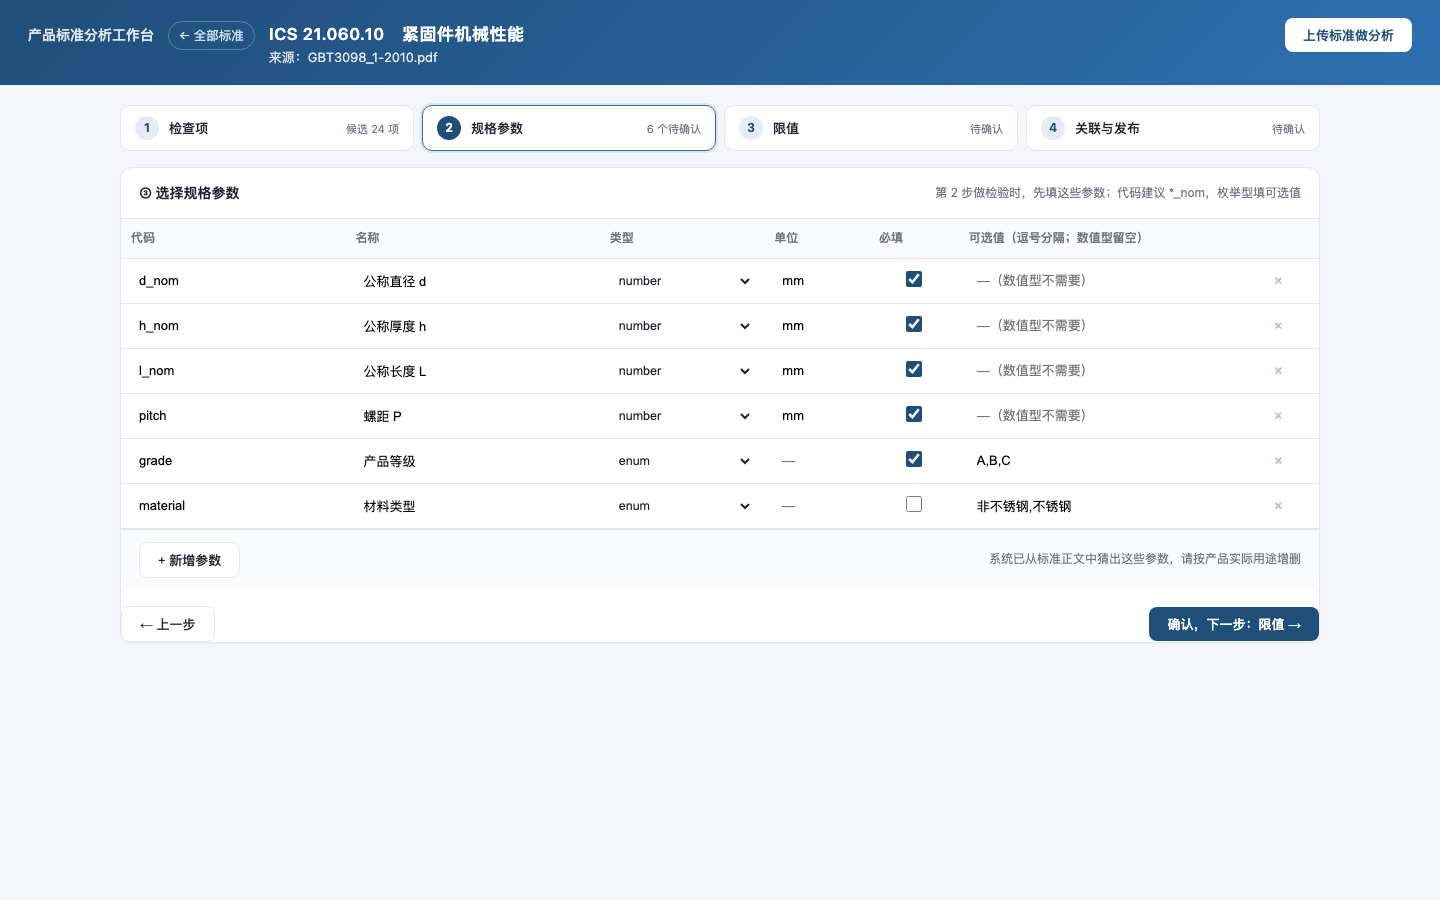
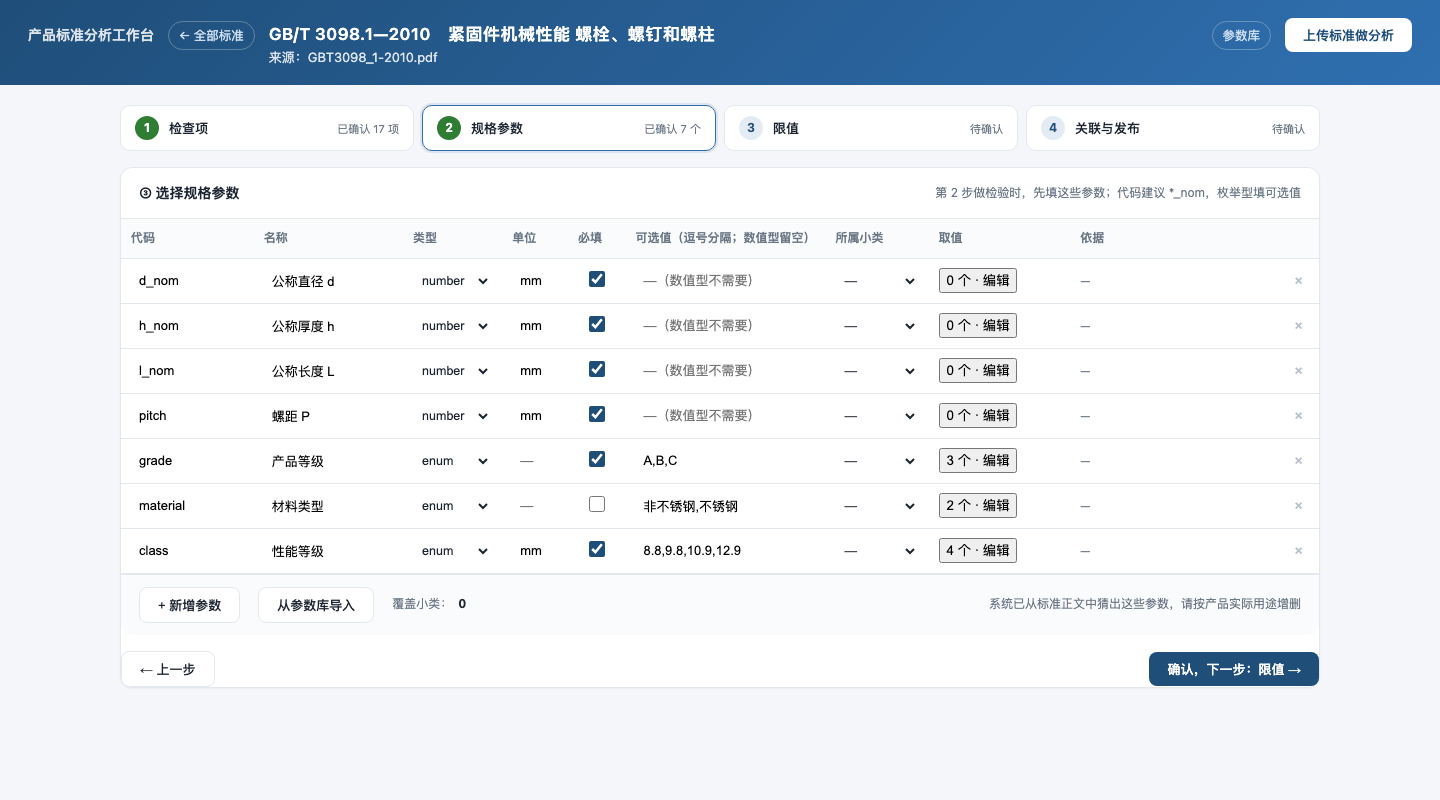
feat: 标准区分覆盖的产品小类
一份标准可覆盖多个小类（如螺栓/螺钉/螺柱）：
- standard 增加 classes_json；Param 增加 class_id
- 第 2 步顶部「覆盖小类」多选，参数表加「所属小类」列
- 从参数库导入时自动记下所属小类并加入覆盖集合
- 首页标准详情显示覆盖小类
- 发布时 classes 随标准落库
- 修 db._ensure_column 未定义（save_payload 500）

diff --git a/g1/service/templates/index.html b/g1/service/templates/index.html
@@ -434,6 +434,7 @@
               <th style="width:70px">单位</th>
               <th style="width:60px">必填</th>
               <th>可选值（逗号分隔；数值型留空）</th>
+              <th style="width:110px">所属小类</th>
               <th style="width:150px">取值</th>
               <th style="width:240px">依据</th>
               <th style="width:34px"></th>
@@ -445,6 +446,7 @@
       <div class="summary">
         <button class="btn ghost" id="btnAddParam">+ 新增参数</button>
         <button class="btn ghost" id="btnFromCatalog">从参数库导入</button>
+        <span class="pill" id="clsPill" style="cursor:pointer">覆盖小类：<b id="clsN">0</b></span>
         <span class="pill" style="margin-left:auto">系统已从标准正文中猜出这些参数，请按产品实际用途增删</span>
       </div>
       <div class="stepnav">
@@ -970,6 +972,10 @@ let STD_LIST = [];
 
 async function initStandards(selected){
   $('#stdTitle').textContent = '全部标准';
+  fetch('/api/catalog').then(r => r.json()).then(cat => {
+    CLASSMAP_G = Object.fromEntries(cat.map(c => [c.id, c.name || c.code]));
+    if(document.querySelector('#stdDetail .kv')) renderStdDetail(STD_CUR, STD_INFO);
+  }).catch(() => {});
   const list = await (await fetch('/api/standards')).json();
   STD_LIST = list;
   $('#scope').textContent = list.length ? `共 ${list.length} 个标准` : '还没有标准';
@@ -1004,7 +1010,10 @@ async function initStandards(selected){
   await renderStdDetail(cur, list.find(s => s.id === cur));
 }
 
+let STD_CUR = null, STD_INFO = null;
+
 async function renderStdDetail(id, info){
+  STD_CUR = id; STD_INFO = info;
   const meta = await (await fetch('/api/meta?std=' + encodeURIComponent(id))).json();
   const params = meta.params || [];
   $('#stdDetail').innerHTML = `
@@ -1023,6 +1032,9 @@ async function renderStdDetail(id, info){
       <dt>规格参数</dt><dd>${params.map(p => `<code>${esc(p.code)}</code>`).join(' ') || '—'}</dd>
       <dt>检项</dt><dd>${(meta.items || []).length} 项</dd>
       <dt>说明</dt><dd>${esc(meta.note || '—')}</dd>
+      <dt>覆盖小类</dt><dd>${(info && info.classes && info.classes.length)
+        ? info.classes.map(cid => `<code>${esc((CLASSMAP_G[cid] || cid))}</code>`).join(' ')
+        : '<span class="muted">未指定</span>'}</dd>
       <dt>原件</dt><dd>${(info && info.has_source)
         ? `<a href="/api/standards/${encodeURIComponent(id)}/source.pdf" target="_blank"
               style="color:var(--brand-2)">查看标准原件（PDF）</a>`
@@ -1068,8 +1080,36 @@ async function initCard(stdId){
   if(new URLSearchParams(location.search).get('demo') === '1') fillDemo();
 }
 
+/* ================= 覆盖小类 ================= */
+$('#clsPill').onclick = async () => {
+  const cat = await (await fetch('/api/catalog')).json();
+  if(!cat.length){ alert('参数库还是空的，先去「参数库」建小类'); return; }
+  const have = new Set(JOB.classes || []);
+  const html = cat.map(c => `
+    <label class="draft" style="display:block;cursor:pointer">
+      <input type="checkbox" class="clchk" value="${esc(c.id)}" ${have.has(c.id) ? 'checked' : ''}
+             style="margin-right:8px">
+      <b>${esc(c.name)}</b> <span class="meta">${esc(c.parent || '')} · ${c.params.length} 个参数</span>
+    </label>`).join('');
+  openWhyHtml('覆盖的产品小类', '这份标准适用的产品小类（可多选）', html, () => {
+    JOB.classes = [...document.querySelectorAll('#whyBody .clchk:checked')].map(x => x.value);
+    $('#clsN').textContent = JOB.classes.length;
+    renderParams();
+  });
+};
+
+function openWhyHtml(title, sub, html, onOk){
+  $('#whyTitle').textContent = title;
+  $('#whySub').textContent = sub || '';
+  $('#whyBody').innerHTML = html +
+    '<div style="margin-top:14px"><button class="btn primary" id="whyOk">确定</button></div>';
+  $('#whyModal').hidden = false;
+  $('#whyOk').onclick = () => { if(onOk) onOk(); $('#whyModal').hidden = true; };
+}
+
 /* ================= 参数库 ================= */
 let CAT = [];
+let CLASSMAP_G = {};      // 首页用的小类 id → 名称
 
 async function initCatalog(selected){
   CAT = await (await fetch('/api/catalog')).json();
@@ -1288,6 +1328,7 @@ const STEP_NAMES = {1: "items", 2: "params", 3: "limits", 4: "links"};
 const STEP_LABEL = {1: "检查项", 2: "规格参数", 3: "限值", 4: "关联"};
 
 let JOB = null;
+let CLASSMAP = {};          // 小类 id → 名称
 
 function syncSteps(){
   const steps = (JOB && JOB.steps) || {};
@@ -2190,7 +2231,11 @@ $('#cpOk').onclick = () => {
       values_list: (p.values || []).map(v => ({sym: v.sym, val: v.val})),
       default: free ? null : ((p.values || [])[0] ? p.values[0].val : null),
       min: null, max: null, help: p.help || '',
+      class_id: $('#cpClass').value || '',
     });
+    if($('#cpClass').value && !(JOB.classes || []).includes($('#cpClass').value)){
+      JOB.classes = (JOB.classes || []).concat([$('#cpClass').value]);
+    }
     n += 1;
   });
   $('#catPickModal').hidden = true;
@@ -2413,6 +2458,11 @@ function renderJob(){
   ].join('');
   JOB = j;
   JOB.links = j.links || {};
+  JOB.classes = j.classes || [];
+  fetch('/api/catalog').then(r => r.json()).then(cat => {
+    CLASSMAP = Object.fromEntries(cat.map(c => [c.id, c.name || c.code]));
+    if(JOB) renderParams();                 // 拿到名称后重渲染一次
+  }).catch(() => { CLASSMAP = {}; });
   const jid = document.querySelector('#jobmeta .jid');
   if(jid) jid.onclick = () => {
     navigator.clipboard?.writeText(jid.dataset.id);
@@ -2558,6 +2608,9 @@ function renderParams(){
       <td style="text-align:center"><input type="checkbox" class="chk preq" ${p.required ? 'checked' : ''}></td>
       <td><input type="text" class="popts" value="${esc((p.options || []).join(','))}"
                  ${p.type === 'enum' ? 'placeholder="如：A,B,C"' : 'disabled placeholder="—（数值型不需要）"'}></td>
+      <td><select class="pcls">${['<option value="">—</option>'].concat(
+        (JOB.classes || []).map(cid => `<option value="${esc(cid)}" ${
+          (p.class_id || '') === cid ? 'selected' : ''}>${esc(CLASSMAP[cid] || cid)}</option>`)).join('')}</select></td>
       <td style="white-space:nowrap">
         <button class="rowvals" data-i="${i}">${
           isFreeValues(p.values_list) ? '自由取值' :
@@ -2603,6 +2656,7 @@ function syncParams(){
       default: isEnum ? (opts[0] ?? null) : null,
       min: null, max: null, help: '',
       values_list: (old[i] && old[i].values_list) || [],
+      class_id: tr.querySelector('.pcls') ? tr.querySelector('.pcls').value : '',
     };
   });
 }
@@ -2896,6 +2950,7 @@ $('#btnPublish').onclick = async () => {
     category: '自定义',
     scope: '',
     params: JOB.params_spec,
+    classes: JOB.classes || [],
     items,
     limits: JOB.limits,
     source: {job_id: JOB.id, filename: JOB.filename, pages: JOB.pages},

diff --git a/g1/service/standards.py b/g1/service/standards.py
@@ -37,6 +37,7 @@ class Param:
     default: Any = None
     help: str = ""
     values_list: list = field(default_factory=list)   # [{sym, val}] 该参数的全部可能值
+    class_id: str = ""                                # 来自哪个产品小类
 
     def meta(self) -> dict:
         return {
@@ -45,6 +46,7 @@ class Param:
             "min": self.minimum, "max": self.maximum,
             "default": self.default, "help": self.help,
             "values_list": self.values_list or [{"sym": v, "val": v} for v in (self.options or [])],
+            "class_id": self.class_id,
         }
 
 
@@ -61,6 +63,7 @@ class Standard:
     symbols: dict[str, SymbolSet]
     note: str = ""
     custom: bool = False          # 由“上传分析”发布的标准
+    classes: list = field(default_factory=list)   # 覆盖的产品小类 id
     source: dict = field(default_factory=dict)   # 来源作业、文件名等
 
     # ---------- 参数校验：把用户输入整理成引擎上下文 ----------
@@ -104,6 +107,7 @@ class Standard:
             "custom": self.custom,
             "source": self.source,
             "params": [p.meta() for p in self.params],
+            "classes": self.classes,
             "items": [{**{k: i[k] for k in
                         ("id", "name", "symbol", "clause", "kind", "measured_key",
                          "nominal_param", "requires") if k in i},
@@ -203,6 +207,7 @@ def build_from_payload(payload: dict) -> Standard:
             default=p.get("default"),
             help=p.get("help", ""),
             values_list=list(p.get("values_list") or []),
+            class_id=p.get("class_id", ""),
         ))
     codes = [p.code for p in params]
     if len(codes) != len(set(codes)):
@@ -249,6 +254,7 @@ def build_from_payload(payload: dict) -> Standard:
         note=payload.get("note") or "由上传分析发布",
         params=params, items=items, tables=tables, symbols={},
         custom=True,
+        classes=list(payload.get("classes") or []),
         source=payload.get("source") or {},
     )
     return std
@@ -273,6 +279,7 @@ def from_loaded(entry: dict) -> Standard:
         category=entry.get("category", ""), scope=entry.get("scope", ""),
         note=entry.get("note", ""), params=params, items=entry["items"],
         tables=entry["tables"], symbols={}, custom=bool(entry.get("custom")),
+        classes=entry.get("classes") or [],
         source=entry.get("source") or {},
     )
 

diff --git a/g1/service/db.py b/g1/service/db.py
@@ -39,6 +39,7 @@ CREATE TABLE IF NOT EXISTS standard (
     note          TEXT DEFAULT '',
     custom        INTEGER DEFAULT 0,
     source_json   TEXT DEFAULT '{}',
+    classes_json  TEXT DEFAULT '[]',
     param_json    TEXT DEFAULT '[]',
     item_json     TEXT DEFAULT '[]',
     limits_json   TEXT DEFAULT '{}',
@@ -283,13 +284,20 @@ def _insert_table(conn, std_id: str, t: dict) -> int:
 
 
 # ------------------------------------------------------------------ 写入
+def _ensure_column(conn: sqlite3.Connection, table: str, col: str, decl: str) -> None:
+    if col not in _columns(conn, table):
+        conn.execute(f"ALTER TABLE {table} ADD COLUMN {col} {decl}")
+        conn.commit()
+
+
 def save_payload(conn: sqlite3.Connection, payload: dict) -> str:
     sid = payload["id"]
     conn.execute("DELETE FROM standard WHERE id = ?", (sid,))   # 级联删表
+    _ensure_column(conn, "standard", "classes_json", "TEXT DEFAULT '[]'")
     conn.execute(
         "INSERT INTO standard(id, code, title, category, scope, note, custom,"
-        " param_json, item_json, limits_json, source_json, created_at)"
-        " VALUES (?,?,?,?,?,?,?,?,?,?,?,?)",
+        " param_json, item_json, limits_json, source_json, classes_json, created_at)"
+        " VALUES (?,?,?,?,?,?,?,?,?,?,?,?,?)",
         (sid, payload.get("code", ""), payload.get("title", ""),
          payload.get("category", ""), payload.get("scope", ""), payload.get("note", ""),
          int(payload.get("custom", 0)),
@@ -297,6 +305,7 @@ def save_payload(conn: sqlite3.Connection, payload: dict) -> str:
          json.dumps(payload.get("items") or [], ensure_ascii=False),
          json.dumps(payload.get("limits") or {}, ensure_ascii=False),
          json.dumps(payload.get("source") or {}, ensure_ascii=False),
+         json.dumps(payload.get("classes") or [], ensure_ascii=False),
          time.time()))
     for t in payload.get("tables") or []:
         _insert_table(conn, sid, t)
@@ -429,6 +438,7 @@ def load_all(conn: sqlite3.Connection) -> list[dict]:
             "custom": bool(s["custom"]),
             "source": json.loads(s["source_json"] or "{}"),
             "params": json.loads(s["param_json"] or "[]"),
+            "classes": json.loads(s["classes_json"] or "[]") if "classes_json" in s.keys() else [],
             "items": items, "tables": tables,
         })
     return out

diff --git a/g1/service/app.py b/g1/service/app.py
@@ -414,6 +414,7 @@ def standards():
         out.append({"id": s.id, "code": s.code, "title": s.title,
                     "category": s.category, "param_count": len(s.params),
                     "item_count": len(s.items), "custom": s.custom,
+                    "classes": s.classes,
                     "has_source": dbmod.document_for_standard(conn, s.id) is not None})
     return out
 
@@ -469,6 +470,7 @@ class ItemsPayload(BaseModel):
 
 class PublishPayload(BaseModel):
     job_id: str | None = None
+    classes: list[str] = Field(default_factory=list)   # 覆盖的产品小类
     id: str | None = None
     code: str = ""
     title: str = ""
